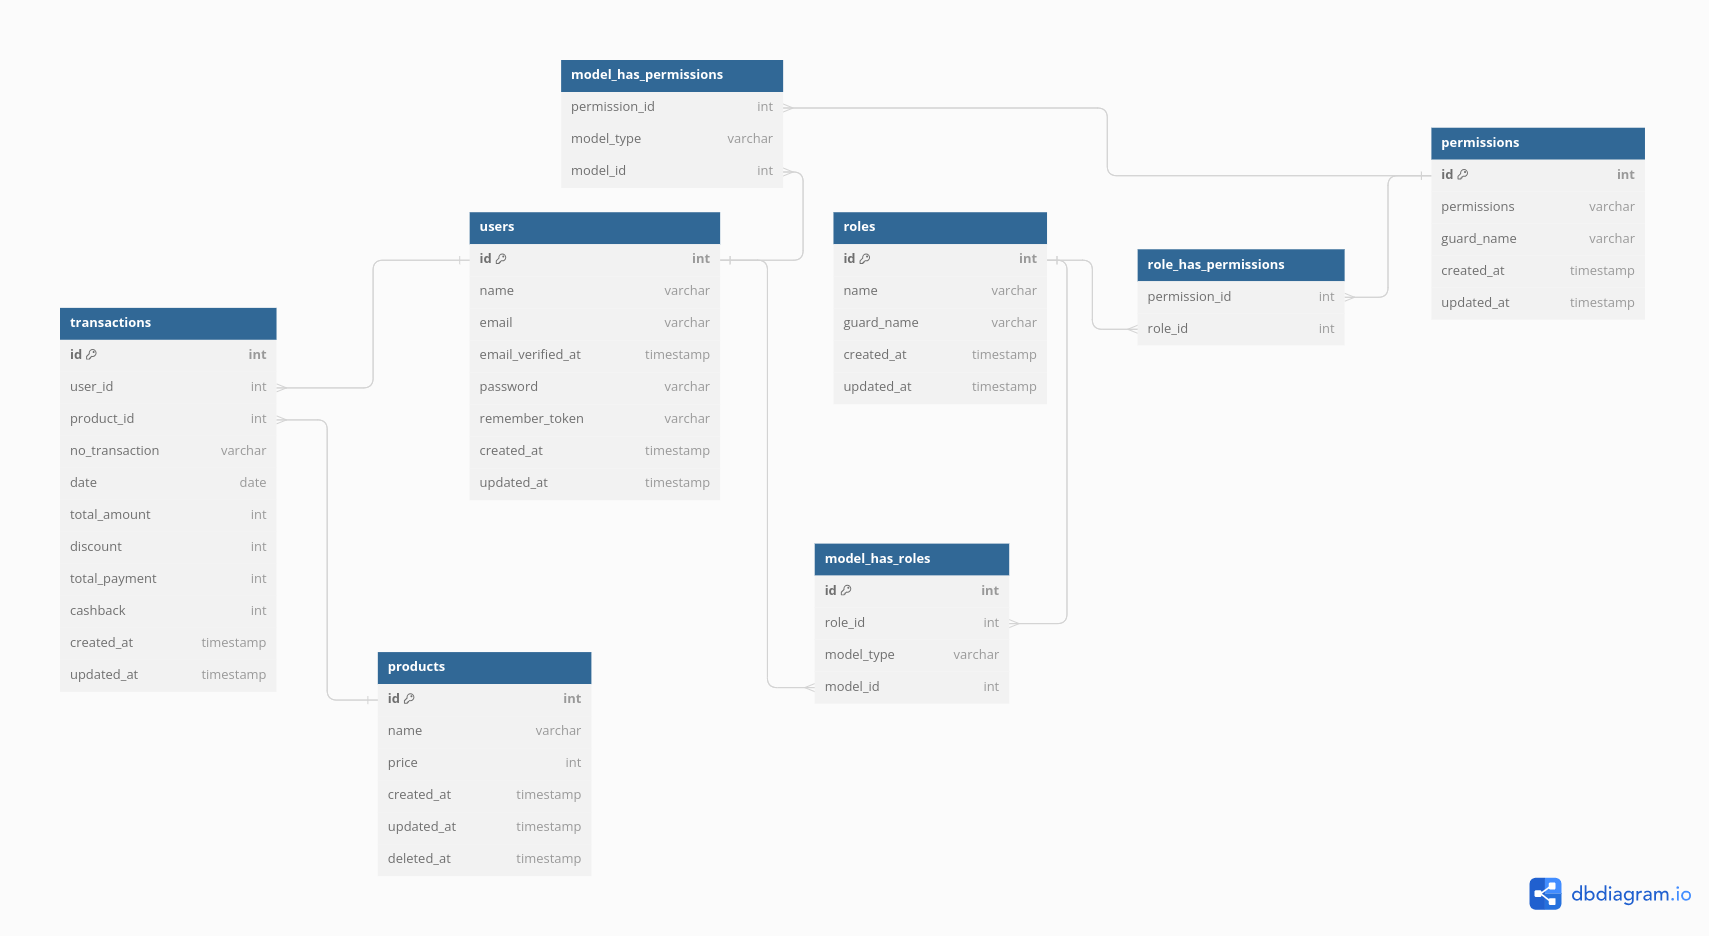
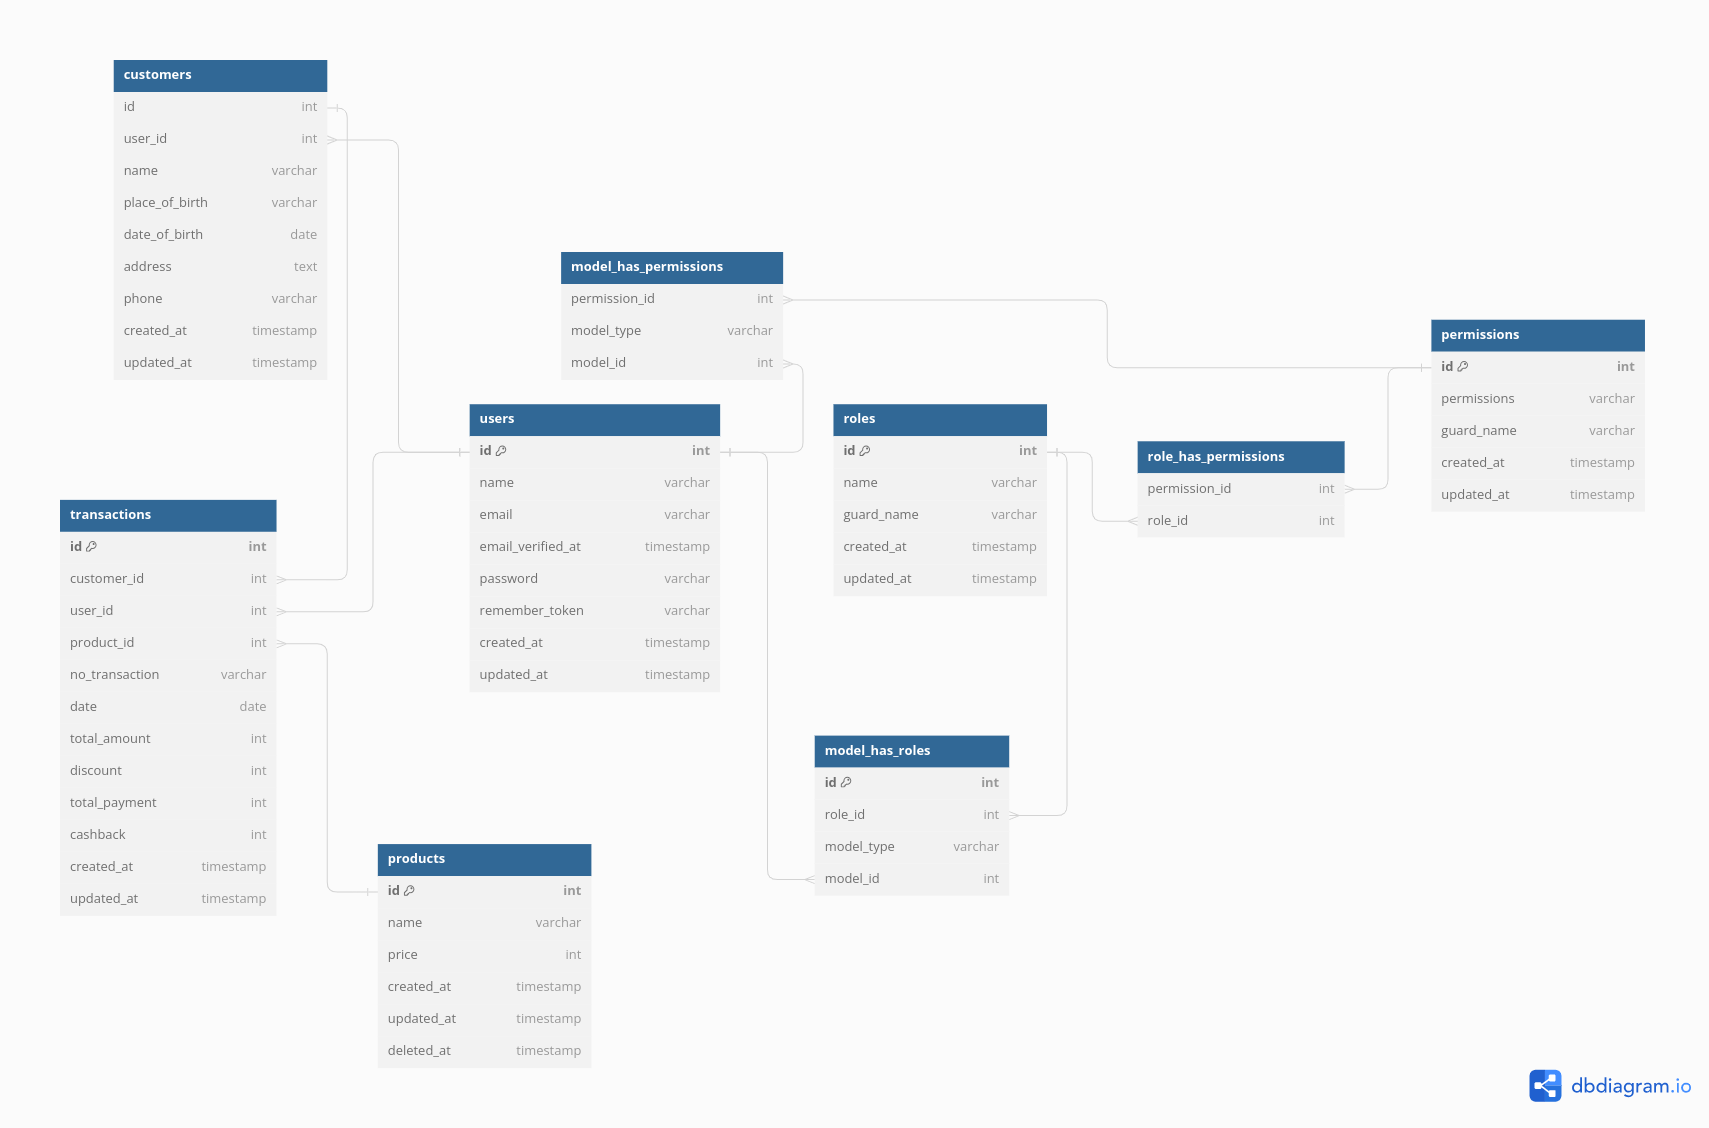
feat: api update customer

diff --git a/app/Repositories/AccountRepository.php b/app/Repositories/AccountRepository.php
@@ -1,0 +1,80 @@
+<?php
+
+namespace App\Repositories;
+
+use App\Models\User;
+use App\Models\Customer;
+use Illuminate\Support\Facades\Auth;
+use Illuminate\Support\Facades\Hash;
+use App\Repositories\Interfaces\AccountRepositoryInterface;
+
+class AccountRepository implements AccountRepositoryInterface
+{
+    protected $model;
+    protected $modelUser;
+
+    public function __construct(Customer $model, User $modelUser)
+    {
+        $this->model = $model;
+        $this->modelUser = $modelUser;
+    }
+
+    public function findCustomerByUserId($userId)
+    {
+        return $this->model::where('user_id', $userId)->first();
+    }
+
+    public function updateDataCustomer($payload)
+    {
+        $customer = $this->findCustomerByUserId(Auth::user()->id);
+        if($customer){
+            $customer->name = $payload['name'];
+            $customer->place_of_birth = $payload['place_of_birth'];
+            $customer->date_of_birth = $payload['date_of_birth'];
+            $customer->address = $payload['address'];
+            $customer->phone = $payload['phone'];
+            $customer->update();
+            
+            return ['is_updated' => true];
+        }
+
+        return ['is_updated' => false];
+    }
+
+    public function createUser($payload)
+    {
+        return $this->modelUser::create([
+            'name' => $payload['name'],
+            'email' => $payload['email'],
+            'password' => Hash::make($payload['password']),
+        ]);
+    }
+
+    public function createCustomer($payload)
+    {
+        return $this->model::create([
+            'user_id' => $payload['user_id'],
+            'name' => $payload['name'],
+            'place_of_birth' => isset($payload['place_of_birth']) ? $payload['place_of_birth'] : null,
+            'date_of_birth' => isset($payload['date_of_birth']) ? $payload['date_of_birth'] : null,
+            'address' => isset($payload['address']) ? $payload['address'] : null,
+            'phone' => isset($payload['phone']) ? $payload['phone'] : null
+        ]);
+    }
+
+    public function updateCustomer($payload)
+    {
+        return $this->model::updateOrCreate(
+            [
+                'user_id' => $payload['user_id'],
+            ],
+            [
+                'name' => $payload['name'],
+                'place_of_birth' => isset($payload['place_of_birth']) ? $payload['place_of_birth'] : null,
+                'date_of_birth' => isset($payload['date_of_birth']) ? $payload['date_of_birth'] : null,
+                'address' => isset($payload['address']) ? $payload['address'] : null,
+                'phone' => isset($payload['phone']) ? $payload['phone'] : null
+            ]
+        );
+    }
+}

diff --git a/app/Http/Controllers/AuthController.php b/app/Http/Controllers/AuthController.php
@@ -8,9 +8,16 @@ use Illuminate\Support\Facades\DB;
 use Illuminate\Support\Facades\Log;
 use Illuminate\Support\Facades\Hash;
 use Illuminate\Support\Facades\Validator;
+use App\Repositories\Interfaces\AccountRepositoryInterface;
 
 class AuthController extends Controller
 {
+    private $accountRepository;
+
+    public function __construct(AccountRepositoryInterface $accountRepository) {
+        $this->accountRepository = $accountRepository;
+    }
+    
     /**
      * register
      */
@@ -21,13 +28,21 @@ class AuthController extends Controller
         
         DB::beginTransaction();
         try {
-            $user = User::create([
-                'name' => request()->name,
-                'email' => request()->email,
-                'password' => Hash::make(request()->password),
-            ]);
+            $user = $this->accountRepository->createUser(
+                [
+                    'name' => request()->name,
+                    'email' => request()->email,
+                    'password' => request()->password
+                ]
+            );
             $user->assignRole('customer');
 
+            $this->accountRepository->createCustomer(
+                [
+                    'user_id' => $user->id,
+                    'name' => request()->name
+                ]
+            );
             DB::commit();
             return $this->success('Akun Berhasil Dibuat');
         }catch (\Exception $e) {

diff --git a/database/migrations/2023_10_31_143009_create_customers_table.php b/database/migrations/2023_10_31_143009_create_customers_table.php
@@ -11,17 +11,14 @@ return new class extends Migration
      */
     public function up(): void
     {
-        Schema::create('transactions', function (Blueprint $table) {
+        Schema::create('customers', function (Blueprint $table) {
             $table->id();
-            $table->unsignedBigInteger('customer_id');
             $table->unsignedBigInteger('user_id');
-            $table->unsignedBigInteger('product_id');
-            $table->string('no_transaction');
-            $table->date('date');
-            $table->integer('total_amount');
-            $table->integer('discount');
-            $table->integer('total_payment');
-            $table->integer('cashback');
+            $table->string('name');
+            $table->string('place_of_birth')->nullable();
+            $table->string('date_of_birth')->nullable();
+            $table->string('address')->nullable();
+            $table->string('phone')->nullable();
             $table->timestamps();
         });
     }
@@ -31,6 +28,6 @@ return new class extends Migration
      */
     public function down(): void
     {
-        Schema::dropIfExists('transactions');
+        Schema::dropIfExists('customers');
     }
 };

diff --git a/app/Http/Requests/AccountRequest.php b/app/Http/Requests/AccountRequest.php
@@ -4,7 +4,7 @@ namespace App\Http\Requests;
 
 use Illuminate\Foundation\Http\FormRequest;
 
-class UserRequest extends FormRequest
+class AccountRequest extends FormRequest
 {
     /**
      * Determine if the user is authorized to make this request.
@@ -22,17 +22,11 @@ class UserRequest extends FormRequest
     public function rules(): array
     {
         return [
-            'email' => 'required|email|unique:users',
             'name' => 'required',
-            'password' => 'required|confirmed|min:6'
-        ];
-    }
-
-    public function rulesLogin(): array
-    {
-        return [
-            'email' => 'required',
-            'password' => 'required'
+            'place_of_birth' => 'required',
+            'date_of_birth' => 'required',
+            'address' => 'required',
+            'phone' => 'required'
         ];
     }
 }

diff --git a/app/Http/Controllers/AccountController.php b/app/Http/Controllers/AccountController.php
@@ -2,9 +2,21 @@
 
 namespace App\Http\Controllers;
 
-use Illuminate\Http\Request;
+use App\Http\Requests\AccountRequest;
+use Illuminate\Support\Facades\Validator;
+use App\Repositories\Interfaces\AccountRepositoryInterface;
 
 class AccountController extends Controller
 {
-    //
+    private $accountRepository;
+
+    public function __construct(AccountRepositoryInterface $accountRepository) {
+        $this->accountRepository = $accountRepository;
+    }
+
+    public function update(){
+        $validator = Validator::make(request()->all(), (new AccountRequest())->rules());
+        if ($validator->fails()) return $this->error(400, parent::setMessageValidationError($validator), true);
+        return $this->success($this->accountRepository->updateDataCustomer(request()->all()), "Success");
+    }
 }

diff --git a/app/Providers/AppServiceProvider.php b/app/Providers/AppServiceProvider.php
@@ -2,7 +2,9 @@
 
 namespace App\Providers;
 
+use App\Repositories\AccountRepository;
 use Illuminate\Support\ServiceProvider;
+use App\Repositories\Interfaces\AccountRepositoryInterface;
 
 class AppServiceProvider extends ServiceProvider
 {
@@ -11,7 +13,7 @@ class AppServiceProvider extends ServiceProvider
      */
     public function register(): void
     {
-        //
+        $this->app->bind(AccountRepositoryInterface::class, AccountRepository::class);
     }
 
     /**

diff --git a/app/Models/Customer.php b/app/Models/Customer.php
@@ -1,0 +1,20 @@
+<?php
+
+namespace App\Models;
+
+use Illuminate\Database\Eloquent\Factories\HasFactory;
+use Illuminate\Database\Eloquent\Model;
+
+class Customer extends Model
+{
+    use HasFactory;
+
+    protected $fillable = [
+        'user_id',
+        'name',
+        'place_of_birth',
+        'date_of_birth',
+        'address',
+        'phone',
+    ];
+}

diff --git a/app/Repositories/Interfaces/AccountRepositoryInterface.php b/app/Repositories/Interfaces/AccountRepositoryInterface.php
@@ -1,0 +1,12 @@
+<?php
+
+namespace App\Repositories\Interfaces;
+
+interface AccountRepositoryInterface
+{
+    public function updateDataCustomer($payload);
+    public function findCustomerByUserId($userId);
+    public function createUser($payload);
+    public function createCustomer($payload);
+    public function updateCustomer($payload);
+}
